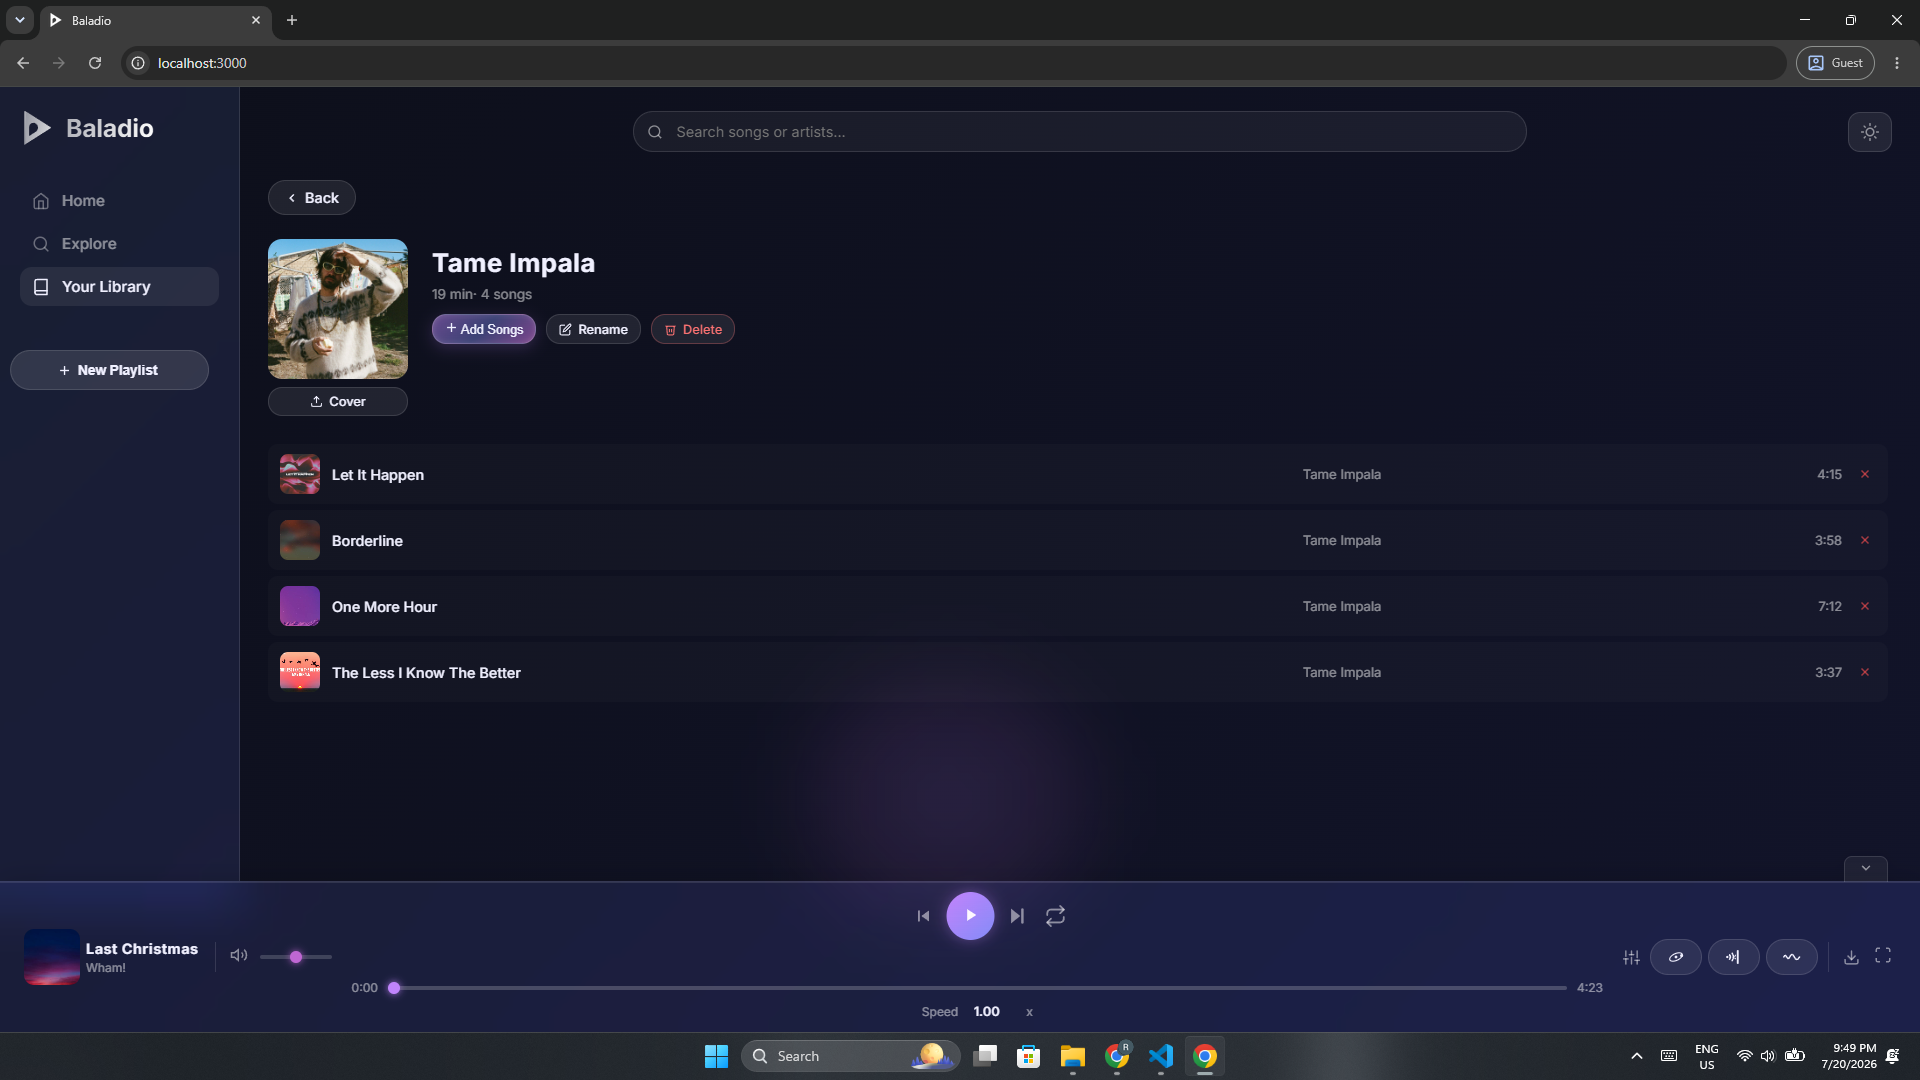
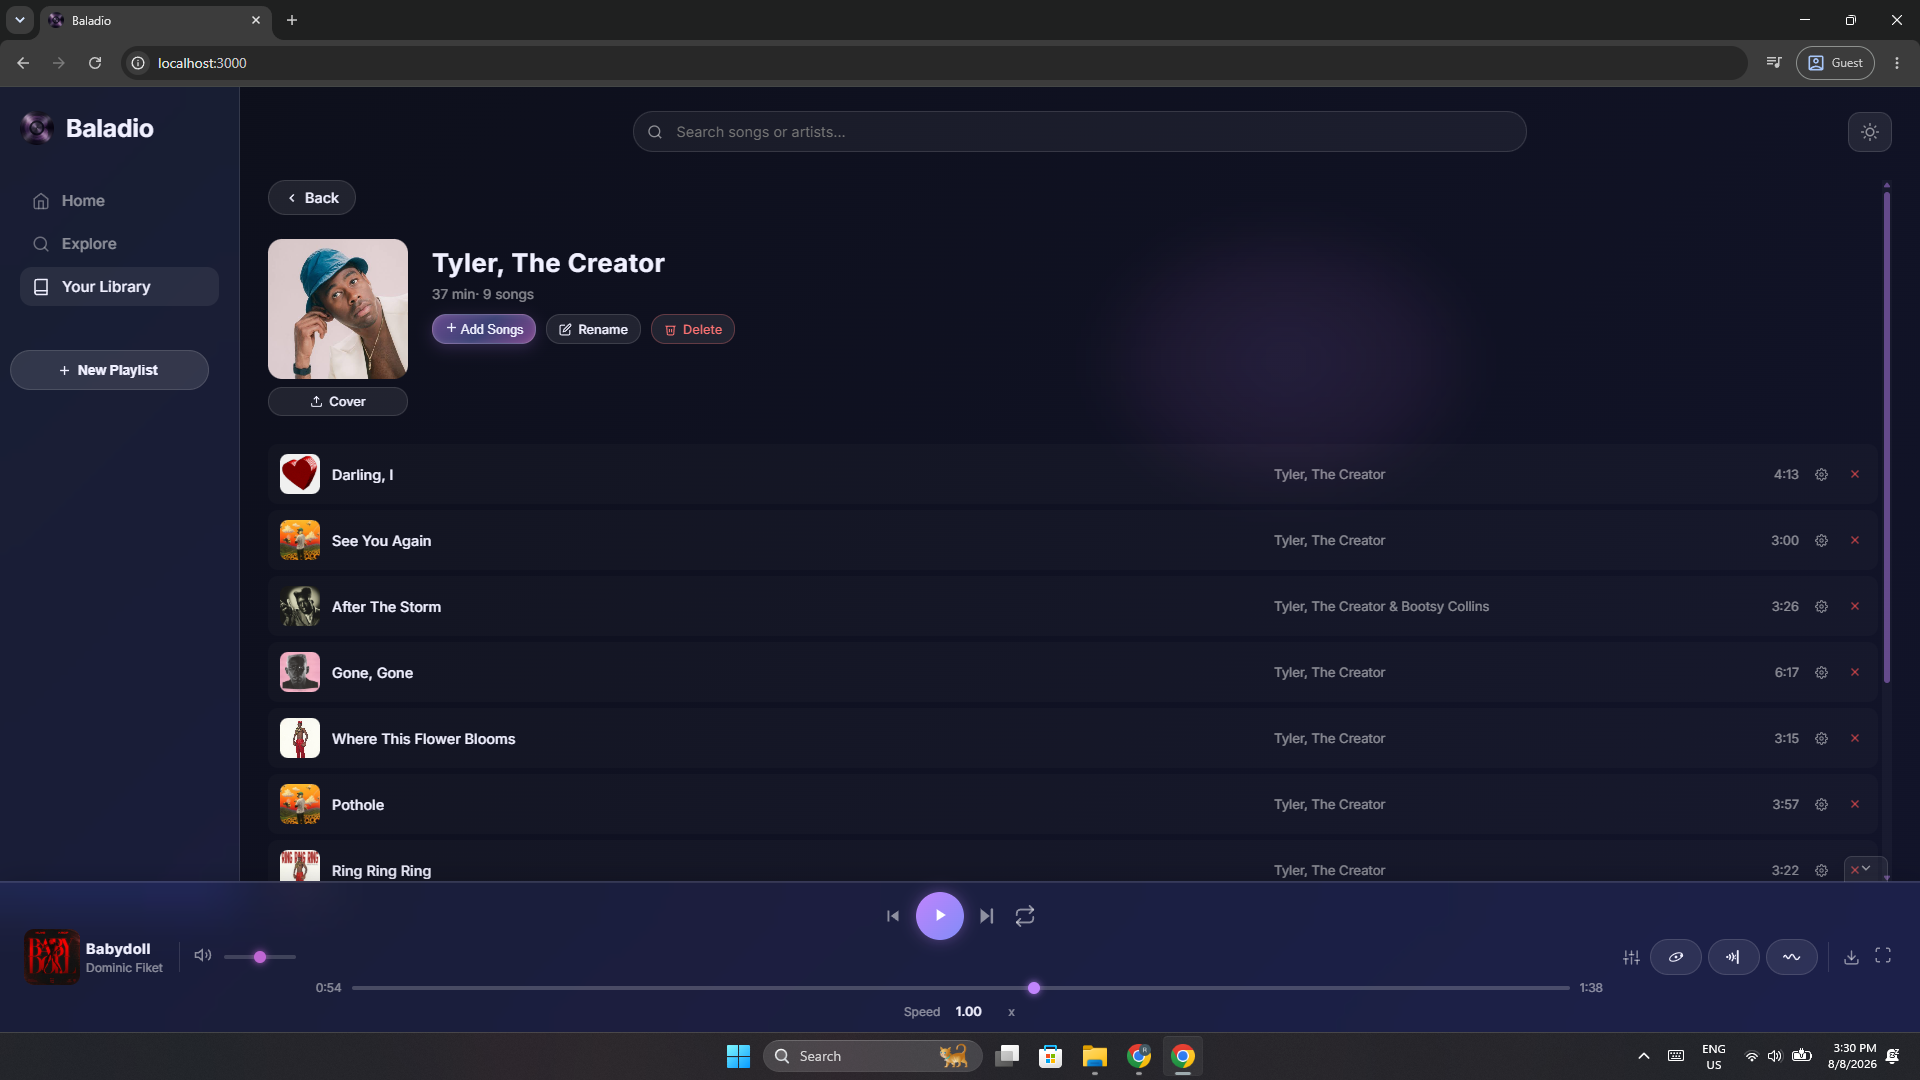
readme and screenshot update

diff --git a/README.md b/README.md
@@ -27,7 +27,7 @@ In French, baladeur is a noun that means a personal stereo, portable music playe
 - **Effect Config panel** — live-tune 8D speed, reverb wet/dry, and reverb tail.
 - **Playback speed** — 0.5× to 2× with a dedicated speed input that can also accept mouse scroll.
 - **Playlist management** — create, rename, delete, reorder (drag-to-rearrange), and set custom covers for playlists.
-- **Listening analytics** — home dashboard with top song, top artist, hottest playlist, plays today, artists explored, and day streak. History stored server-side in `data/history.json`.
+- **Listening analytics** — home dashboard with top song, top artist, hottest playlist, plays today, artists explored, and day streak. Songs are counted after 10 seconds of playback. History stored server-side in `data/history.json`.
 - **Recently Played** — horizontal scroll strip on the home page.
 - **Download with effects** — exports the song with the current effect chain applied (8D, reverb, speed) as an mp3 file using `OfflineAudioContext`.
 - **Cover art** — reads embedded ID3 tags for MP3s, extracts the first frame of MP4s via ffmpeg, and supports custom uploaded covers.
@@ -60,14 +60,14 @@ npm install
 
 ### 3. Add your music
 
-Create a `songs/` folder **one level above** `baladio/` and drop your `.mp3` or `.mp4` files inside:
+Create a `songs/` folder **one level above** `Baladio/` and drop your `.mp3` or `.mp4` files inside:
 
 ```
 your-folder/
 ├── songs/               ← your audio files go here
 │   ├── song1.mp3
 │   └── song2.mp4
-└── baladio/             ← this repo
+└── Baladio/             ← this repo
     ├── covers/          ← auto-created on first run
     ├── data/            ← auto-created on first run
     ├── public/
@@ -120,20 +120,29 @@ if /I not "%~1"=="silent" pause
 ## Screenshots
 
 <table>
+    <tr><td><h3>Home page</h3><td></tr>
     <tr>
-        <td><img src="/screenshots/home, playing.png"><br><sub>Home Page (song playing)</sub></td>
-        <td><img src="/screenshots/explore page.png"><br><sub>Explore Page</sub></td>
+        <td><img src="/screenshots/home page light.png"><br><sub>Home Page Light</sub></td>
+        <td><img src="/screenshots/home page dark.png"><br><sub>Home Page Dark</sub></td>
     </tr>
+    <tr><td><h3>Explore page</h3><td></tr>
     <tr>
-        <td><img src="/screenshots/playlist page.png"><br><sub><bold>Playlists Page</bold></sub></td>
-        <td><img src="/screenshots/home light theme.png"><br><sub>Home Light theme</sub></td>
+        <td><img src="/screenshots/explore page light.png"><br><sub>Explore Page Light</sub></td>
+        <td><img src="/screenshots/explore page dark.png"><br><sub>Explore Page Dark</sub></td>
     </tr>
-    <tr>
-        <td><img src="/screenshots/fullscreen dark & light theme.png"><br><sub>Fullscreen Dark & Light theme</sub></td>
+    <tr><td><h3>Playlist page</h3><td></tr>
+    <tr>    
+        <td><img src="/screenshots/playlist page light.png"><br><sub>Playlist Page Light</sub></td>
+        <td><img src="/screenshots/playlist page dark.png"><br><sub>Playlist Page Light</sub></td>
     </tr>
+</table>
+
+---
+
+<table>
     <tr>
-        <td><img src="/screenshots/new playlist.png"><br><sub>Making a new playlist</sub></td>
-        <td><img src="/screenshots/inside a playlist.png"><br><sub>Inside a playlist</sub></td>
+        <td><img src="/screenshots/inside a playlist.png"><br><sub>An example playlist</sub></td>
+        <td><img src="/screenshots/fullscreen.png"><br><sub>Fullscreen (same for light/dark theme)</sub></td>
     </tr>
     
 </table>
@@ -159,13 +168,14 @@ if /I not "%~1"=="silent" pause
 ## Project Structure
 
 ```
-music_player/
+Baladio/
 ├── covers/
-│   ├── songs/           song cover images ({filename}.jpg)
+│   ├── songs/           song cover images ({uuid}.jpg)
 │   ├── playlists/       playlist cover images ({id}.jpg)
 │   └── default_song_cover.jpg
 ├── data/
-│   ├── library.json     playlists + custom metadata
+│   ├── metadata.json    custom title/artist metadata and filename mappings
+│   ├── playlists.json   user created playlists
 │   └── history.json     server-side play history
 ├── public/
 │   ├── app.js           all frontend logic
